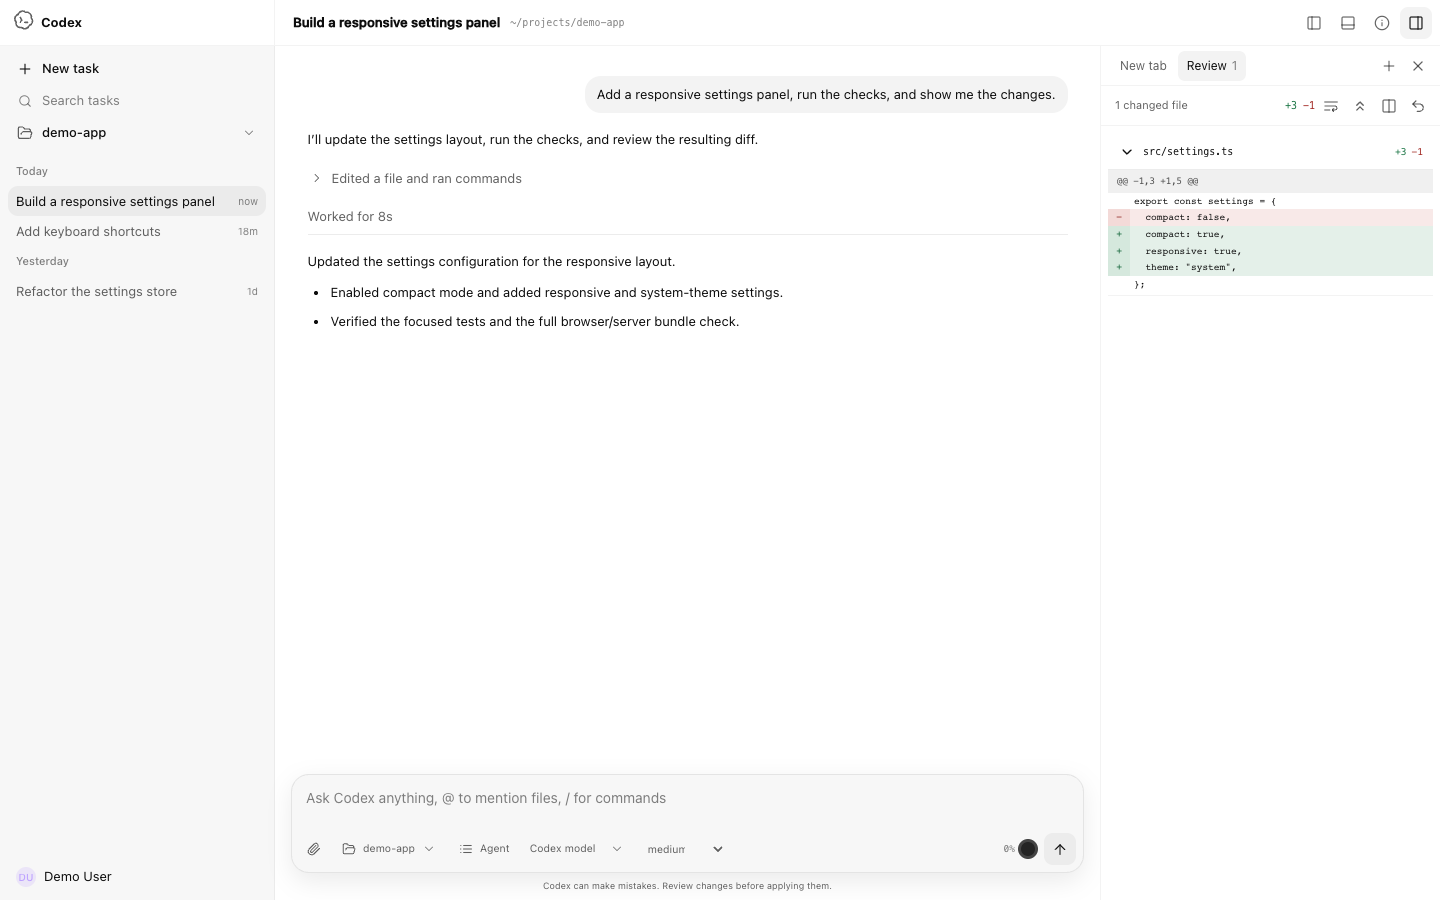
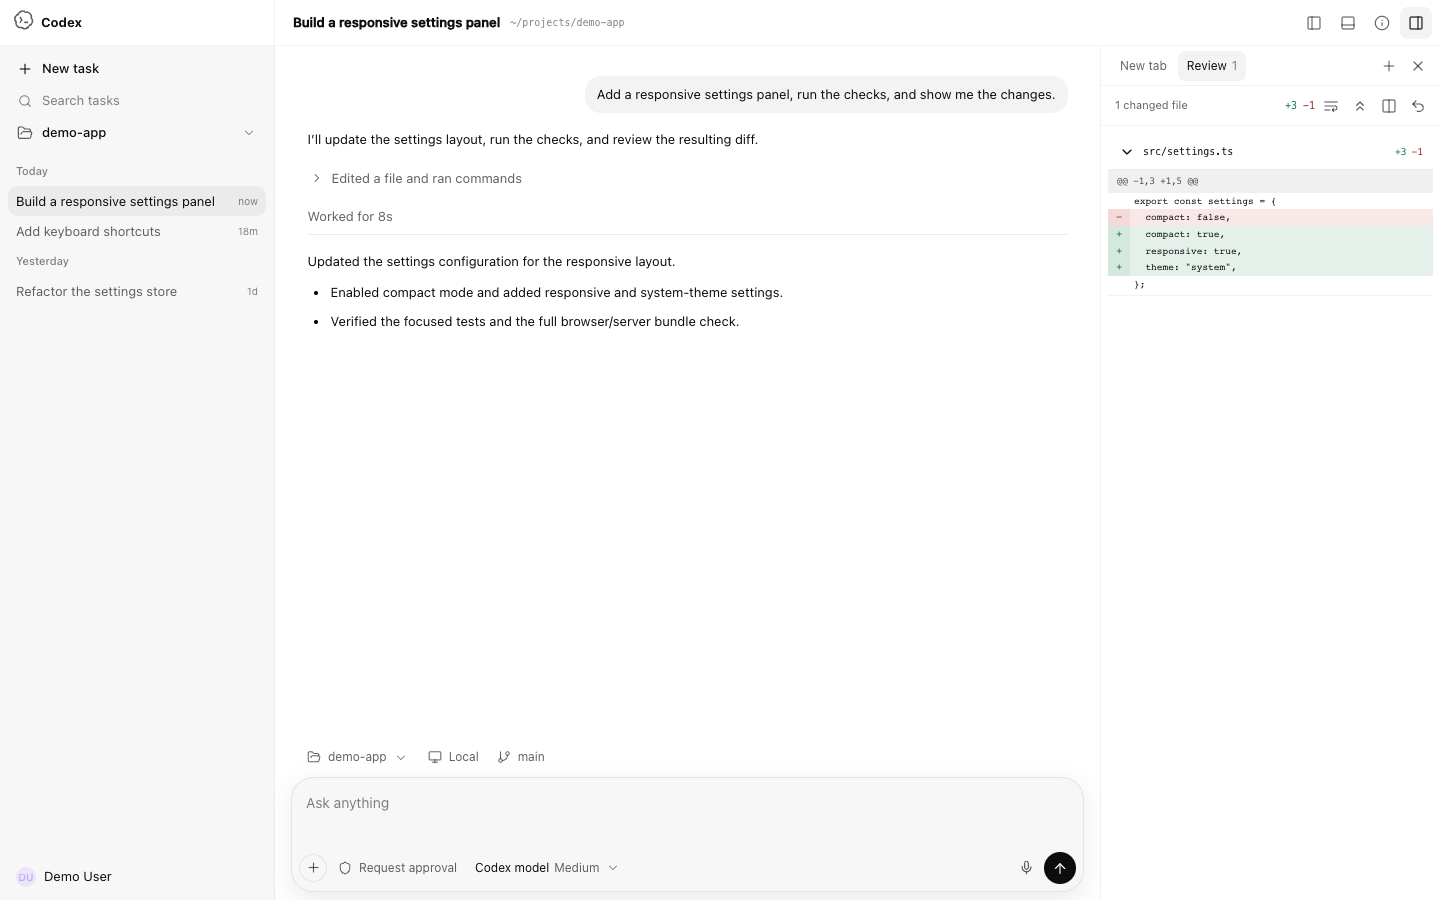
feat: align composer with Codex Desktop

diff --git a/public/style.css b/public/style.css
@@ -271,3 +271,60 @@ body{background:var(--app-main);color:var(--app-text)}
   .bottom-panel-launcher{display:grid;grid-template-columns:repeat(3,minmax(0,1fr));gap:6px;padding:8px}
   .bottom-panel-launcher button{min-width:0;width:100%;padding:0 4px}
 }
+
+/* Codex Desktop 26.707 composer: context row above, compact controls below. */
+.composer-dock{padding-top:6px;padding-bottom:8px}
+.composer-context{width:min(100%,800px);min-height:28px;margin:0 auto 6px;display:flex;align-items:center;gap:2px;padding:0 7px;overflow-x:auto;scrollbar-width:none;color:var(--app-text-secondary)}
+.composer-context::-webkit-scrollbar{display:none}
+.composer-context-item{height:28px;min-width:0;display:inline-flex;flex:0 0 auto;align-items:center;gap:5px;padding:0 7px;border-radius:7px;color:var(--app-text-secondary);font-size:12px;line-height:18px;white-space:nowrap}
+button.composer-context-item:hover{background:var(--app-hover);color:var(--app-text)}
+.composer-context-item .icon-slot{width:15px;height:15px;min-width:15px}
+.composer-context-item .icon-slot>svg{width:14px;height:14px}
+.composer-context-item .chevron{width:13px;height:13px;min-width:13px}
+#workspaceName,#workspaceBranch{max-width:190px;overflow:hidden;text-overflow:ellipsis}
+.composer{border-radius:22px;overflow:visible}
+.composer textarea{min-height:70px;padding:15px 14px 9px;background:transparent;font-size:14px;line-height:20px}
+.composer-footer{min-height:43px;gap:4px;padding:3px 7px 7px}
+.composer-left,.composer-right{gap:3px}
+.composer-circle-button{width:28px;height:28px;display:inline-grid;flex:0 0 28px;place-items:center;border-radius:50%;color:var(--app-text-secondary);line-height:0}
+.composer-circle-button:hover{background:var(--app-hover);color:var(--app-text)}
+.composer-circle-button .icon-slot{width:16px;height:16px;min-width:16px}
+.composer-circle-button .icon-slot>svg{width:15px;height:15px}
+.add-control{border:1px solid var(--app-border-default)}
+.composer-text-button{height:28px;min-width:0;display:inline-flex;align-items:center;gap:5px;padding:0 7px;border-radius:7px;color:var(--app-text-secondary);font-size:12px;line-height:18px;white-space:nowrap}
+.composer-text-button:hover,.composer-text-button[aria-expanded=true]{background:var(--app-hover);color:var(--app-text)}
+.composer-text-button .icon-slot{width:15px;height:15px;min-width:15px}
+.composer-text-button .icon-slot>svg{width:14px;height:14px}
+.approval-control{padding-left:6px}
+.composer-model-control{min-width:0}
+.model-trigger{min-width:0;max-width:230px;padding:0 6px 0 8px;gap:5px}
+.model-trigger #modelLabel{min-width:0;max-width:150px;overflow:hidden;text-overflow:ellipsis;white-space:nowrap;color:var(--app-text)}
+.model-trigger #effortLabel{color:var(--app-text-secondary);text-transform:capitalize}
+.model-trigger .chevron{margin-left:0}
+.effort-options{display:flex;align-items:center;gap:4px;margin-top:5px;padding:7px 4px 1px;border-top:1px solid var(--app-border-default)}
+.effort-options>span{margin-right:auto;padding-left:5px;color:var(--app-text-tertiary);font-size:11px}
+.effort-option{height:26px;padding:0 8px;border-radius:6px;color:var(--app-text-secondary);font-size:11px;text-transform:capitalize}
+.effort-option:hover,.effort-option.selected{background:var(--app-hover);color:var(--app-text)}
+.dictation-control{border:0}
+.send-button{width:32px;height:32px;flex:0 0 32px;border-radius:50%;margin-left:1px;background:var(--app-text);color:var(--app-main)}
+.send-button:hover{filter:brightness(.9)}
+.send-button .icon-slot,.send-button .icon-slot>svg{width:16px;height:16px}
+@media(max-width:720px){
+  .composer-context{width:100%;padding-inline:2px}
+  #workspaceName,#workspaceBranch{max-width:110px}
+  .composer textarea{min-height:62px}
+  .composer-footer{overflow:hidden}
+  .model-trigger{max-width:150px}
+  .model-trigger #modelLabel{max-width:78px}
+}
+@media(max-width:420px){
+  .composer-dock{padding-top:4px}
+  .composer-context-item{padding-inline:5px}
+  .composer-context-item[data-context=environment]{display:none}
+  #workspaceName,#workspaceBranch{max-width:86px}
+  .approval-control .control-label{display:none}
+  .approval-control{width:28px;padding:0;justify-content:center}
+  .model-trigger{max-width:118px;padding-inline:5px}
+  .model-trigger #modelLabel{max-width:54px}
+  .composer-left{min-width:0;flex:1}
+}

diff --git a/tests/workspace-context.test.ts b/tests/workspace-context.test.ts
@@ -1,0 +1,25 @@
+import { describe, expect, test } from 'bun:test';
+import { mkdtempSync, mkdirSync, rmSync } from 'node:fs';
+import { join } from 'node:path';
+import { tmpdir } from 'node:os';
+import { execFileSync } from 'node:child_process';
+import { readWorkspaceContext } from '../workspace-context.js';
+
+describe('workspace composer context', () => {
+  test('reports the selected folder, local environment, and current git branch', () => {
+    const root=mkdtempSync(join(tmpdir(),'codex-webui-context-'));
+    try {
+      const repo=join(root,'sample-project');mkdirSync(repo);
+      execFileSync('git',['init','-b','feature/composer'],{cwd:repo,stdio:'ignore'});
+      expect(readWorkspaceContext(repo,[root])).toEqual({cwd:repo,project:'sample-project',environment:'Local',branch:'feature/composer'});
+    } finally { rmSync(root,{recursive:true,force:true}); }
+  });
+
+  test('falls back cleanly outside a git repository and rejects escaped paths', () => {
+    const root=mkdtempSync(join(tmpdir(),'codex-webui-context-'));
+    try {
+      expect(readWorkspaceContext(root,[root])).toEqual({cwd:root,project:root.split('/').at(-1),environment:'Local',branch:'No branch'});
+      expect(()=>readWorkspaceContext('/private/tmp',[root])).toThrow('outside allowed roots');
+    } finally { rmSync(root,{recursive:true,force:true}); }
+  });
+});

diff --git a/public/index.html b/public/index.html
@@ -56,27 +56,29 @@
       </div>
     </section>
     <div class="composer-dock">
+      <div class="composer-context" aria-label="Task context">
+        <button type="button" class="composer-context-item" id="workspaceButton" title="Change project folder"><span class="icon-slot" data-icon="folderOpen"></span><span id="workspaceName">codex-webui</span><span class="icon-slot chevron" data-icon="chevronDown"></span></button>
+        <span class="composer-context-item" data-context="environment"><span class="icon-slot" data-icon="monitor"></span><span id="workspaceEnvironment">Local</span></span>
+        <span class="composer-context-item" data-context="branch"><span class="icon-slot" data-icon="gitBranch"></span><span id="workspaceBranch">No branch</span></span>
+      </div>
       <form class="composer" id="composer">
-        <textarea id="prompt" rows="1" placeholder="Ask Codex anything, @ to mention files, / for commands"></textarea>
+        <textarea id="prompt" rows="1" placeholder="Ask anything" aria-label="Task prompt"></textarea>
         <div class="composer-footer">
           <div class="composer-left">
-            <button type="button" class="utility-button icon-only" title="Attach"><span class="icon-slot" data-icon="paperclip"></span></button>
-            <button type="button" class="utility-button workspace-button" id="workspaceButton" title="Change project folder"><span class="icon-slot" data-icon="folderOpen"></span><span id="workspaceName">codex-webui</span><span class="icon-slot chevron" data-icon="chevronDown"></span></button>
-            <button type="button" class="utility-button" id="modeButton"><span class="icon-slot" data-icon="list"></span><span>Agent</span></button>
-            <div class="model-picker" id="modelPicker">
-              <button type="button" class="select-button model-trigger" id="modelButton" aria-haspopup="listbox" aria-expanded="false"><span id="modelLabel">Loading models…</span><span class="icon-slot chevron" data-icon="chevronDown"></span></button>
+            <button type="button" class="composer-circle-button add-control" data-composer-control="add" title="Attach files and folders" aria-label="Attach files and folders"><span class="icon-slot" data-icon="plus"></span></button>
+            <button type="button" class="composer-text-button approval-control" id="modeButton" data-composer-control="approval" title="Approval policy"><span class="icon-slot" data-icon="shield"></span><span class="control-label">Request approval</span></button>
+            <div class="model-picker composer-model-control" id="modelPicker" data-composer-control="model">
+              <button type="button" class="composer-text-button model-trigger" id="modelButton" aria-haspopup="listbox" aria-expanded="false"><span id="modelLabel">Loading models…</span><span id="effortLabel">medium</span><span class="icon-slot chevron" data-icon="chevronDown"></span></button>
               <div class="model-menu" id="modelMenu" role="listbox" hidden></div>
+              <select id="effortSelect" class="sr-only" aria-label="Reasoning effort"><option value="medium">medium</option></select>
             </div>
-            <select id="effortSelect" class="select-button compact" aria-label="Reasoning effort"><option value="medium">medium</option></select>
           </div>
           <div class="composer-right">
-            <span class="context-label" id="contextLabel">0%</span>
-            <span class="context-ring" id="contextRing" aria-label="Context usage"></span>
-            <button class="send-button" id="sendButton" type="submit" title="Send"><span class="icon-slot" data-icon="arrowUp"></span></button>
+            <button type="button" class="composer-circle-button dictation-control" data-composer-control="dictation" title="Start dictation" aria-label="Start dictation"><span class="icon-slot" data-icon="mic"></span></button>
+            <button class="send-button" id="sendButton" data-composer-control="send" type="submit" title="Send message" aria-label="Send message"><span class="icon-slot" data-icon="arrowUp"></span></button>
           </div>
         </div>
       </form>
-      <div class="composer-caption"><span>Codex can make mistakes. Review changes before applying them.</span></div>
     </div>
   </main>
 

diff --git a/workspace-context.js b/workspace-context.js
@@ -1,0 +1,19 @@
+import { execFileSync } from 'node:child_process';
+import { basename } from 'node:path';
+import { isDirectory, resolveBrowsePath } from './folder-service.js';
+
+export function readWorkspaceContext(input, allowedRoots) {
+  const cwd = resolveBrowsePath(input, allowedRoots);
+  if (!isDirectory(cwd)) throw new Error('Directory not found');
+  let branch = 'No branch';
+  try {
+    const value = execFileSync('git', ['branch', '--show-current'], {
+      cwd,
+      encoding: 'utf8',
+      stdio: ['ignore', 'pipe', 'ignore'],
+      timeout: 2000,
+    }).trim();
+    if (value) branch = value;
+  } catch { /* Non-git workspaces use the native empty-state label. */ }
+  return { cwd, project: basename(cwd) || cwd, environment: 'Local', branch };
+}

diff --git a/public/app.js b/public/app.js
@@ -16,6 +16,7 @@ let sidePanelReturnFocus=null,summaryPanelReturnFocus=null;
 let bottomPanelLastView=null;
 const terminalState={term:null,fit:null,ws:null,resizeObserver:null,reconnectTimer:null};
 const accountRequestGate=createLatestRequestGate();
+const workspaceContextRequestGate=createLatestRequestGate();
 
 const icons = {
   chevron:codexIcon('chevronRight','activity-chevron'),
@@ -81,19 +82,24 @@ function renderModels(){
   const selection=selectModelState(state.models,saved);state.selectedModel=selection.model;
   const menu=$('#modelMenu');menu.innerHTML='';
   for(const m of state.models){const b=document.createElement('button');b.type='button';b.className='model-option'+(m.model===state.selectedModel?' selected':'');b.role='option';b.dataset.model=m.model;b.setAttribute('aria-selected',String(m.model===state.selectedModel));b.innerHTML=`<span><strong>${escapeHtml(m.displayName||m.model)}</strong><small>${escapeHtml(m.description||m.model)}</small></span><span class="model-check">${m.model===state.selectedModel?'✓':''}</span>`;b.onclick=()=>chooseModel(m.model);menu.append(b)}
-  syncModelLabel();updateEfforts(selection.effort);
+  syncModelLabel();updateEfforts(selection.effort);renderEffortOptions();
 }
 function chooseModel(model){state.selectedModel=model;localStorage.setItem('codex-webui-model',model);renderModels();closeModelMenu();toast(`Model: ${model}`)}
 function syncModelLabel(){const model=state.models.find(x=>x.model===state.selectedModel);$('#modelLabel').textContent=model?.displayName||state.selectedModel||'Select model'}
 function updateEfforts(preferred){
   const model=state.models.find(x=>x.model===state.selectedModel);const effort=$('#effortSelect');effort.innerHTML='';
-  for(const item of model?.supportedReasoningEfforts||[{reasoningEffort:'medium'}]){const o=document.createElement('option');o.value=item.reasoningEffort;o.textContent=item.reasoningEffort;if(item.reasoningEffort===(preferred||model?.defaultReasoningEffort))o.selected=true;effort.append(o)}
+  const saved=localStorage.getItem(`codex-webui-effort:${state.selectedModel}`),selected=saved||preferred||model?.defaultReasoningEffort;
+  for(const item of model?.supportedReasoningEfforts||[{reasoningEffort:'medium'}]){const o=document.createElement('option');o.value=item.reasoningEffort;o.textContent=item.reasoningEffort;if(item.reasoningEffort===selected)o.selected=true;effort.append(o)}
+  $('#effortLabel').textContent=effort.value||'medium';
 }
+function renderEffortOptions(){const menu=$('#modelMenu'),effort=$('#effortSelect'),section=document.createElement('div');section.className='effort-options';section.innerHTML='<span>Reasoning</span>';for(const option of effort.options){const button=document.createElement('button');button.type='button';button.className='effort-option'+(option.selected?' selected':'');button.textContent=option.value;button.onclick=()=>chooseEffort(option.value);section.append(button)}menu.append(section)}
+function chooseEffort(value){const effort=$('#effortSelect');if(![...effort.options].some(option=>option.value===value))return;effort.value=value;$('#effortLabel').textContent=value;localStorage.setItem(`codex-webui-effort:${state.selectedModel}`,value);closeModelMenu();toast(`Reasoning: ${value}`)}
 function toggleModelMenu(){const menu=$('#modelMenu'),open=menu.hidden;menu.hidden=!open;$('#modelButton').setAttribute('aria-expanded',String(open))}
 function closeModelMenu(){const menu=$('#modelMenu');menu.hidden=true;$('#modelButton').setAttribute('aria-expanded','false')}
 async function loadFolders(path=folderBrowse.path){const list=$('#folderList');list.innerHTML='<div class="list-state">Loading folders…</div>';try{const response=await fetch(`/api/folders?path=${encodeURIComponent(path)}`),data=await response.json();if(!response.ok)throw new Error(data.error||'Cannot browse folder');folderBrowse={path:data.path,parent:data.parent,selected:data.path};$('#folderPathInput').value=data.path;$('#folderSelection').textContent=data.path;$('#folderConfirm').disabled=false;$('#folderUp').disabled=!data.parent;list.innerHTML='';for(const folder of data.folders){const b=document.createElement('button');b.type='button';b.className='folder-item';b.innerHTML=`${icons.file}<span>${escapeHtml(folder.name)}</span>`;b.ondblclick=()=>loadFolders(folder.path);b.onclick=()=>{folderBrowse.selected=folder.path;$('#folderSelection').textContent=folder.path;$('#folderConfirm').disabled=false;list.querySelectorAll('.folder-item').forEach(x=>x.classList.remove('selected'));b.classList.add('selected')};list.append(b)}if(!data.folders.length)list.innerHTML='<div class="list-state">No subfolders</div>'}catch(e){list.innerHTML=`<div class="list-state">${escapeHtml(e.message)}</div>`}}
 function openFolderPicker(){const dialog=$('#folderDialog');folderBrowse.selected=null;dialog.showModal();loadFolders($('#projectPath').textContent||'~/projects')}
-function setWorkspace(path){const name=path.split('/').filter(Boolean).at(-1)||path;$('#projectPath').textContent=shortPath(path);$('#projectName').textContent=name;$('#workspaceName').textContent=name;localStorage.setItem('codex-webui-project',path);if(!$('#summaryPanel').hidden)syncSummaryPanel()}
+async function syncWorkspaceContext(path){const requestId=workspaceContextRequestGate.next();try{const response=await fetch(`/api/workspace/context?cwd=${encodeURIComponent(path)}`,{cache:'no-store'}),context=await response.json();if(!response.ok)throw new Error(context.error||'Workspace context unavailable');if(!workspaceContextRequestGate.isCurrent(requestId))return;$('#workspaceName').textContent=context.project;$('#workspaceEnvironment').textContent=context.environment;$('#workspaceBranch').textContent=context.branch}catch{if(workspaceContextRequestGate.isCurrent(requestId)){$('#workspaceEnvironment').textContent='Local';$('#workspaceBranch').textContent='No branch'}}}
+function setWorkspace(path){const name=path.split('/').filter(Boolean).at(-1)||path,resolved=path.replace(/^~/,state.config.home);$('#projectPath').textContent=shortPath(path);$('#projectName').textContent=name;$('#workspaceName').textContent=name;localStorage.setItem('codex-webui-project',path);syncWorkspaceContext(resolved);if(!$('#summaryPanel').hidden)syncSummaryPanel()}
 function resetReviewState(){state.turnDiffs.clear();state.activeReview=null;reviewPatchState='undo';$('#reviewTab').hidden=true;if(!$('#reviewPanelContent').hidden)setSidePanelView('launcher','New tab');renderChanges()}
 function clearConversationRuntime(){for(const animation of state.motion.values())animation?.destroy?.();state.items.clear();state.turns.clear();state.activities.clear();state.activityItems.clear();state.dividers.clear();state.motion.clear()}
 function startNewTask(){state.active=null;state.turnWindow=null;clearConversationRuntime();state.changes.clear();resetReviewState();$('#threadTitle').textContent='New task';$('#threadPath').textContent=$('#projectPath').textContent;if(!$('#summaryPanel').hidden)syncSummaryPanel();showEmpty();renderThreads();$('#prompt').focus()}
@@ -164,7 +170,7 @@ function onNotification(method,p){
   else if(method==='item/commandExecution/outputDelta'){const group=state.activities.get(p.turnId),row=group?.querySelector(`[data-item-id="${CSS.escape(p.itemId)}"]`);if(row){const out=row.nextElementSibling;out.textContent=(out.textContent||'')+(p.delta||'')}}
   else if(method==='turn/diff/updated'){if(p.threadId&&state.active?.id&&p.threadId!==state.active.id)return;const review=parseUnifiedDiff(p.diff||'');review.turnId=p.turnId;review.raw=p.diff||'';state.turnDiffs.set(p.turnId,review);state.activeReview=review;renderChanges()}
   else if(method==='turn/completed'){$('#sendButton').classList.remove('stop');$('#sendButton').dataset.turnId='';if(p.turn?.items)for(const i of p.turn.items)upsertItem(i,p.turn.id);if(p.turn?.id)syncWorkedForDivider(p.turn.id,turnDurationMs(p.turn));refreshThreadsSoon()}
-  else if(method==='thread/tokenUsage/updated'){const u=p.tokenUsage,window=u.modelContextWindow||0,total=u.total?.totalTokens||0,pct=window?Math.min(100,Math.round(total/window*100)):0;$('#contextLabel').textContent=pct+'%';$('#contextRing').style.setProperty('--usage',pct+'%')}
+  else if(method==='thread/tokenUsage/updated'){/* The current native composer does not render a persistent percentage ring. */}
   else if(method==='thread/status/changed')refreshThreadsSoon();
   else if(method==='error')toast(p.error?.message||p.message||'Codex error');
 }
@@ -198,7 +204,7 @@ function initializeTerminal(){if(terminalState.term){connectTerminal();requestAn
 function setBottomPanelView(kind='launcher'){const launcher=kind==='launcher',terminal=kind==='terminal',labels={browser:['Browser','globe','The embedded Codex browser requires the native desktop bridge.'],files:['Files','folderOpen','Choose or switch the local project folder available to this WebUI.']};$('#bottomPanelLauncher').hidden=!launcher;$('#terminalHost').hidden=!terminal;$('#bottomPanelUtility').hidden=launcher||terminal;$('#bottomPanelTab').textContent=launcher?'New tab':terminal?'Terminal':labels[kind]?.[0]||'New tab';if(launcher)return;bottomPanelLastView=kind;if(terminal){initializeTerminal();requestAnimationFrame(()=>{fitTerminal();terminalState.term?.focus()});return}const[title,icon,description]=labels[kind];$('#bottomPanelIcon').innerHTML=codexIcon(icon);$('#bottomPanelUtilityTitle').textContent=title;$('#bottomPanelDescription').textContent=description;const action=$('#bottomPanelAction');action.hidden=kind!=='files';action.textContent='Choose project folder';action.onclick=kind==='files'?openFolderPicker:null}
 function setBottomPanelOpen(open){const panel=$('#bottomPanel');panel.hidden=!open;document.body.classList.toggle('bottom-panel-open',open);$('#toggleBottomPanel').setAttribute('aria-pressed',String(open));$('#toggleBottomPanel').setAttribute('aria-expanded',String(open));if(open)setBottomPanelView(bottomPanelLastView||'launcher')}
 
-$('#newTab').onclick=()=>setSidePanelView('launcher','New tab');$('#reviewTab').onclick=()=>openReviewPanel(state.activeReview);$('#utilityTab').onclick=()=>setSidePanelView('utility',$('#utilityTab').textContent);$('#openSidePanelTab').onclick=()=>setSidePanelView('launcher','New tab');for(const action of document.querySelectorAll('[data-side-panel-action]'))action.onclick=()=>action.dataset.sidePanelAction==='review'?openReviewPanel():openUtilityPanel(action.dataset.sidePanelAction);$('#bottomPanelTab').onclick=()=>setBottomPanelView();for(const action of document.querySelectorAll('[data-bottom-panel-action]'))action.onclick=()=>setBottomPanelView(action.dataset.bottomPanelAction);$('#reviewMode').onclick=()=>{reviewPreferences.mode=reviewPreferences.mode==='unified'?'split':'unified';saveReviewPreferences();renderChanges()};$('#reviewWrap').onclick=()=>{reviewPreferences.wrap=!reviewPreferences.wrap;saveReviewPreferences();renderChanges()};$('#reviewExpand').onclick=()=>{reviewPreferences.expanded=!reviewPreferences.expanded;saveReviewPreferences();renderChanges()};$('#reviewPatch').onclick=applyActiveReviewPatch;$('#composer').addEventListener('submit',submitPrompt);$('#prompt').addEventListener('input',resizePrompt);$('#prompt').addEventListener('keydown',e=>{if(e.key==='Enter'&&!e.shiftKey){e.preventDefault();$('#composer').requestSubmit()}});$('#threadSearch').addEventListener('input',renderThreads);$('#modelButton').addEventListener('click',toggleModelMenu);$('#newTask').onclick=startNewTask;$('#projectButton').onclick=openFolderPicker;$('#workspaceButton').onclick=openFolderPicker;$('#accountButton').onclick=e=>{e.stopPropagation();toggleAccountMenu()};$('#folderGo').onclick=()=>loadFolders($('#folderPathInput').value);$('#folderPathInput').onkeydown=e=>{if(e.key==='Enter'){e.preventDefault();loadFolders(e.currentTarget.value)}};$('#folderUp').onclick=()=>folderBrowse.parent&&loadFolders(folderBrowse.parent);$('#folderConfirm').onclick=useSelectedFolder;$('#toggleSummaryPanel').onclick=()=>setSummaryPanelOpen($('#summaryPanel').hidden);$('#toggleSidePanel').onclick=()=>setSidePanelOpen($('#sidePanel').hidden);$('#toggleBottomPanel').onclick=()=>setBottomPanelOpen($('#bottomPanel').hidden);$('#closeBottomPanel').onclick=()=>setBottomPanelOpen(false);$('#toggleSidebar').onclick=()=>{if(innerWidth<720)$('#sidebar').classList.toggle('mobile-open');else document.body.classList.toggle('sidebar-hidden')};$('#closeSidePanel').onclick=()=>setSidePanelOpen(false);$('#closeSummaryPanel').onclick=()=>setSummaryPanelOpen(false);document.addEventListener('click',e=>{if(!$('#modelPicker').contains(e.target))closeModelMenu();if(!$('#accountMenu').contains(e.target)&&!$('#accountButton').contains(e.target))toggleAccountMenu(false)});addEventListener('keydown',e=>{if(e.target instanceof Element&&e.target.closest('#terminalHost'))return;if(e.key==='Escape'){if($('#folderDialog').open)return;closeModelMenu();toggleAccountMenu(false);if(document.body.classList.contains('side-panel-open'))setSidePanelOpen(false);else if(document.body.classList.contains('summary-panel-open'))setSummaryPanelOpen(false)}if((e.metaKey||e.ctrlKey)&&e.key==='k'){e.preventDefault();startNewTask()}if((e.metaKey||e.ctrlKey)&&e.key==='b'){e.preventDefault();$('#toggleSidebar').click()}if((e.metaKey||e.ctrlKey)&&e.key==='j'){e.preventDefault();$('#toggleBottomPanel').click()}});addEventListener('resize',syncOverlayPanelMode);
-globalThis.__codexWebuiDebug={notify:onNotification,request:onServerRequest,state,renderChanges,renderAccount};
+$('#newTab').onclick=()=>setSidePanelView('launcher','New tab');$('#reviewTab').onclick=()=>openReviewPanel(state.activeReview);$('#utilityTab').onclick=()=>setSidePanelView('utility',$('#utilityTab').textContent);$('#openSidePanelTab').onclick=()=>setSidePanelView('launcher','New tab');for(const action of document.querySelectorAll('[data-side-panel-action]'))action.onclick=()=>action.dataset.sidePanelAction==='review'?openReviewPanel():openUtilityPanel(action.dataset.sidePanelAction);$('#bottomPanelTab').onclick=()=>setBottomPanelView();for(const action of document.querySelectorAll('[data-bottom-panel-action]'))action.onclick=()=>setBottomPanelView(action.dataset.bottomPanelAction);$('#reviewMode').onclick=()=>{reviewPreferences.mode=reviewPreferences.mode==='unified'?'split':'unified';saveReviewPreferences();renderChanges()};$('#reviewWrap').onclick=()=>{reviewPreferences.wrap=!reviewPreferences.wrap;saveReviewPreferences();renderChanges()};$('#reviewExpand').onclick=()=>{reviewPreferences.expanded=!reviewPreferences.expanded;saveReviewPreferences();renderChanges()};$('#reviewPatch').onclick=applyActiveReviewPatch;$('#composer').addEventListener('submit',submitPrompt);$('#prompt').addEventListener('input',resizePrompt);$('#prompt').addEventListener('keydown',e=>{if(e.key==='Enter'&&!e.shiftKey){e.preventDefault();$('#composer').requestSubmit()}});$('#threadSearch').addEventListener('input',renderThreads);$('#modelButton').addEventListener('click',toggleModelMenu);$('#modeButton').onclick=()=>toast('Request approval');document.querySelector('[data-composer-control="add"]').onclick=()=>toast('File attachments require the native desktop attachment bridge.');document.querySelector('[data-composer-control="dictation"]').onclick=()=>toast('Dictation requires the native desktop audio bridge.');$('#newTask').onclick=startNewTask;$('#projectButton').onclick=openFolderPicker;$('#workspaceButton').onclick=openFolderPicker;$('#accountButton').onclick=e=>{e.stopPropagation();toggleAccountMenu()};$('#folderGo').onclick=()=>loadFolders($('#folderPathInput').value);$('#folderPathInput').onkeydown=e=>{if(e.key==='Enter'){e.preventDefault();loadFolders(e.currentTarget.value)}};$('#folderUp').onclick=()=>folderBrowse.parent&&loadFolders(folderBrowse.parent);$('#folderConfirm').onclick=useSelectedFolder;$('#toggleSummaryPanel').onclick=()=>setSummaryPanelOpen($('#summaryPanel').hidden);$('#toggleSidePanel').onclick=()=>setSidePanelOpen($('#sidePanel').hidden);$('#toggleBottomPanel').onclick=()=>setBottomPanelOpen($('#bottomPanel').hidden);$('#closeBottomPanel').onclick=()=>setBottomPanelOpen(false);$('#toggleSidebar').onclick=()=>{if(innerWidth<720)$('#sidebar').classList.toggle('mobile-open');else document.body.classList.toggle('sidebar-hidden')};$('#closeSidePanel').onclick=()=>setSidePanelOpen(false);$('#closeSummaryPanel').onclick=()=>setSummaryPanelOpen(false);document.addEventListener('click',e=>{if(!$('#modelPicker').contains(e.target))closeModelMenu();if(!$('#accountMenu').contains(e.target)&&!$('#accountButton').contains(e.target))toggleAccountMenu(false)});addEventListener('keydown',e=>{if(e.target instanceof Element&&e.target.closest('#terminalHost'))return;if(e.key==='Escape'){if($('#folderDialog').open)return;closeModelMenu();toggleAccountMenu(false);if(document.body.classList.contains('side-panel-open'))setSidePanelOpen(false);else if(document.body.classList.contains('summary-panel-open'))setSummaryPanelOpen(false)}if((e.metaKey||e.ctrlKey)&&e.key==='k'){e.preventDefault();startNewTask()}if((e.metaKey||e.ctrlKey)&&e.key==='b'){e.preventDefault();$('#toggleSidebar').click()}if((e.metaKey||e.ctrlKey)&&e.key==='j'){e.preventDefault();$('#toggleBottomPanel').click()}});addEventListener('resize',syncOverlayPanelMode);
+globalThis.__codexWebuiDebug={notify:onNotification,request:onServerRequest,state,renderChanges,renderAccount,renderHeader};
 async function boot(){const savedProject=localStorage.getItem('codex-webui-project');try{state.config=await fetch('/api/config').then(r=>r.json())}catch{}setWorkspace(savedProject||state.config.defaultCwd||'.');connect()}
 boot();

diff --git a/server.ts b/server.ts
@@ -8,6 +8,7 @@ import { defaultBrowseRoots, isDirectory, listFolders, resolveBrowsePath } from 
 import { applyReviewPatch } from "./review-service.js";
 import { ReviewDiffStore, parseReviewPatchRequest } from "./review-state.js";
 import { createTerminalSession, normalizeTerminalResize, resolveTerminalCwd } from "./terminal-service.js";
+import { readWorkspaceContext } from "./workspace-context.js";
 import {
   isAllowedBrowserRpcMethod,
   isAuthorizedHttpRequest,
@@ -205,6 +206,17 @@ const server = createServer(async (req, res) => {
   if (url.pathname === "/api/config") {
     res.writeHead(200, { "content-type": "application/json; charset=utf-8", "cache-control": "no-store" });
     res.end(JSON.stringify({ home: homeDir, defaultCwd, reviewRoot: reviewRoots[0] }));
+    return;
+  }
+  if (url.pathname === "/api/workspace/context") {
+    try {
+      const context = readWorkspaceContext(url.searchParams.get("cwd") || defaultCwd, browseRoots);
+      res.writeHead(200, { "content-type": "application/json; charset=utf-8", "cache-control": "no-store" });
+      res.end(JSON.stringify(context));
+    } catch (error) {
+      res.writeHead(400, { "content-type": "application/json; charset=utf-8", "cache-control": "no-store" });
+      res.end(JSON.stringify({ error: error instanceof Error ? error.message : String(error) }));
+    }
     return;
   }
   if (url.pathname === "/api/account" || url.pathname === "/api/account/avatar") {

diff --git a/public/codex-icons.js b/public/codex-icons.js
@@ -16,6 +16,8 @@ export const codexIconNodes = {
   ellipsis: '<circle cx="12" cy="12" r="1"/><circle cx="19" cy="12" r="1"/><circle cx="5" cy="12" r="1"/>',
   loaderCircle: '<path d="M21 12a9 9 0 1 1-6.219-8.56"/>',
   messageSquare: '<path d="M21 15a4 4 0 0 1-4 4H8l-5 3V7a4 4 0 0 1 4-4h10a4 4 0 0 1 4 4z"/>',
+  mic: '<path d="M12 2a3 3 0 0 0-3 3v7a3 3 0 0 0 6 0V5a3 3 0 0 0-3-3Z"/><path d="M19 10v2a7 7 0 0 1-14 0v-2"/><line x1="12" x2="12" y1="19" y2="22"/>',
+  monitor: '<rect width="20" height="14" x="2" y="3" rx="2"/><line x1="8" x2="16" y1="21" y2="21"/><line x1="12" x2="12" y1="17" y2="21"/>',
   undo: '<path d="M9 14 4 9l5-5"/><path d="M4 9h10.5a5.5 5.5 0 0 1 5.5 5.5a5.5 5.5 0 0 1-5.5 5.5H11"/>',
   wrapText: '<line x1="3" x2="21" y1="6" y2="6"/><path d="M3 12h15a3 3 0 1 1 0 6h-4"/><polyline points="16 16 14 18 16 20"/><line x1="3" x2="10" y1="18" y2="18"/>',
   columns2: '<rect width="18" height="18" x="3" y="3" rx="2"/><path d="M12 3v18"/>',